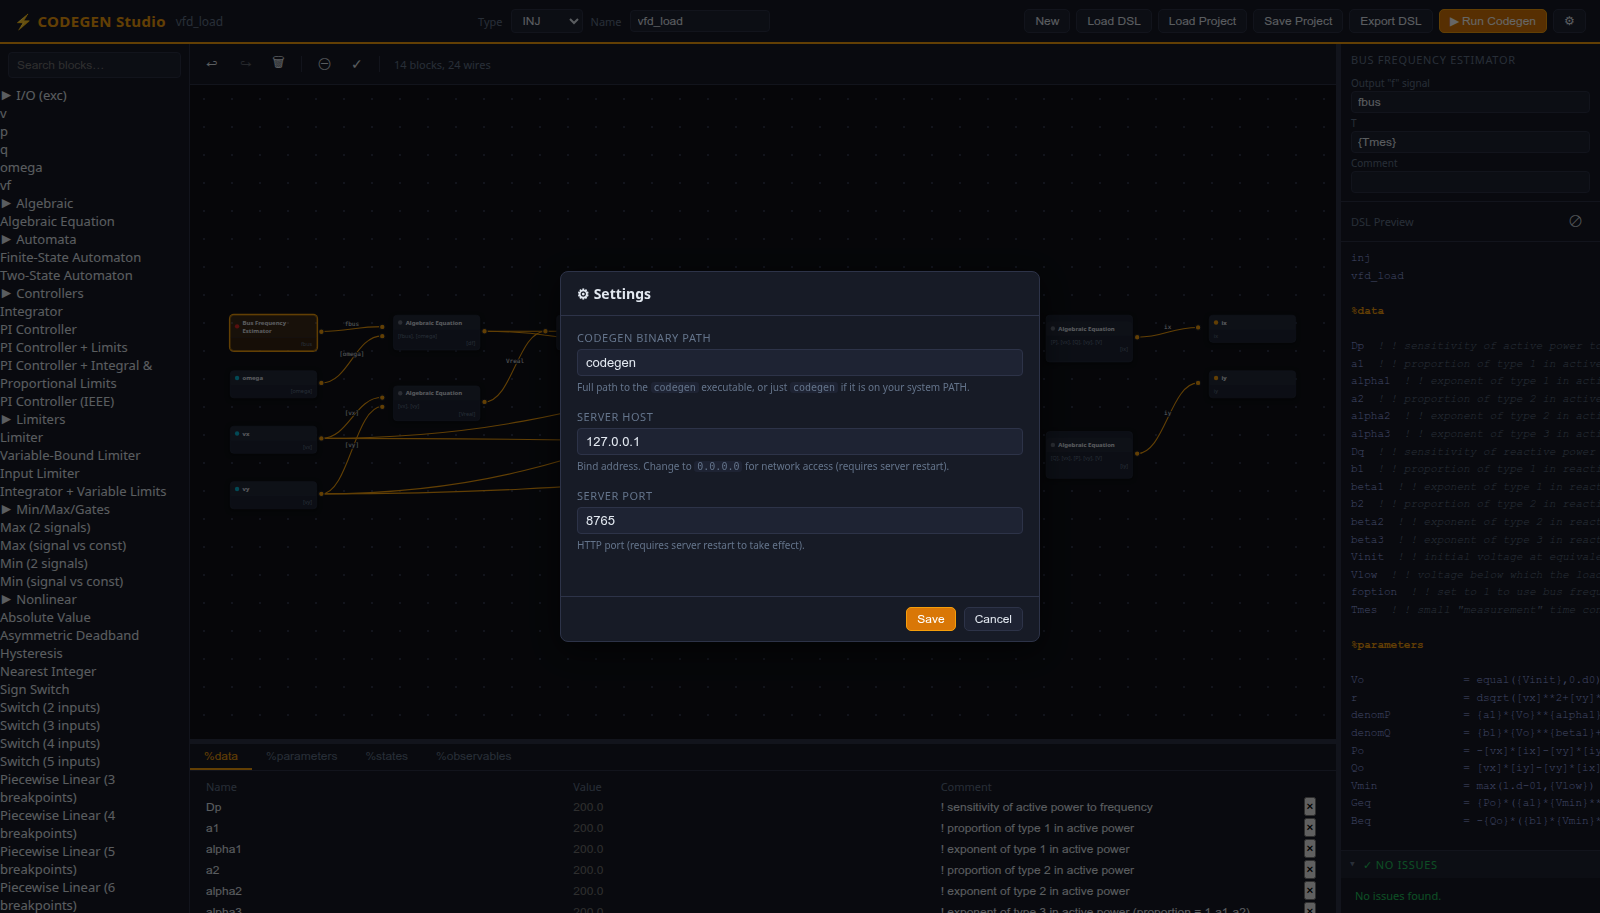
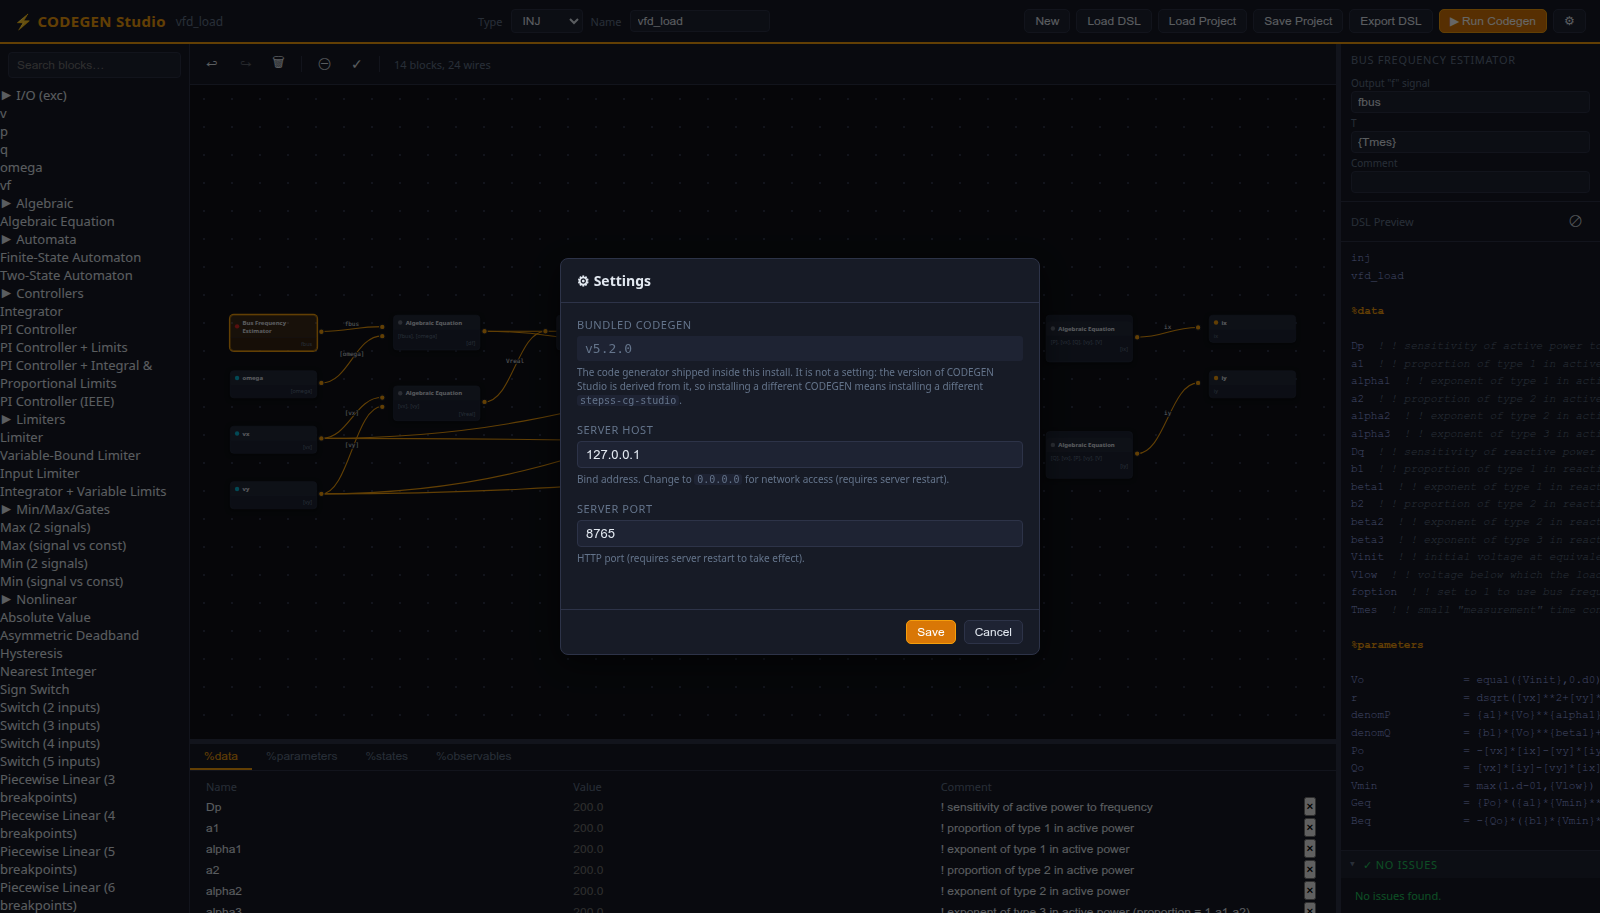
CODEGEN Studio bundles CODEGEN, so say so and stop describing a setting
The wheel now carries the CODEGEN executables for all three platforms, so
Run Codegen works on a fresh `pip install stepss-cg-studio`. Four places
told readers the opposite: that the wheel carried the editor alone, and
that they had to obtain a `codegen` executable and point Settings at it.

That setting is gone, not merely defaulted, so the Settings table and its
screenshot are reshot to match: the first row is a read-only "Bundled
CODEGEN" value rather than an editable path. Only that figure changed;
the other five come out of the same capture run unchanged in substance.

The licence page gains the consequence, since it owns these facts: two
things now ship CODEGEN, and both are mixed-licence rather than the
Apache 2.0 their own source is under. The component table said CODEGEN
Studio was Apache 2.0 full stop, which is true of the repository and not
of the wheel PyPI serves.

macOS gains the one caveat that survives: `brew install gcc`, because
Apple does not support fully static executables and that build links
against libgfortran.

Changed region(s): [[0.3438, 0.276, 0.6562, 0.6134], [0.3438, 0.644, 0.6562, 0.736], [0.4688, 0.4907, 0.5938, 0.552]]

diff --git a/src/content/docs/getting-started/license.md b/src/content/docs/getting-started/license.md
@@ -11,7 +11,7 @@ description: Licensing information for the STEPSS suite
 | stepss | Apache License 2.0 | [SPS-L/stepss-python-ui](https://github.com/SPS-L/stepss-python-ui) |
 | URAMSES | Apache License 2.0 | [SPS-L/stepss-uramses](https://github.com/SPS-L/stepss-uramses) |
 | stepss-eigenanalysis | Apache License 2.0 | [SPS-L/stepss-eigenanalysis](https://github.com/SPS-L/stepss-eigenanalysis) |
-| CODEGEN Studio | Apache License 2.0 | [SPS-L/stepss-cg-studio](https://github.com/SPS-L/stepss-cg-studio) |
+| CODEGEN Studio | Apache License 2.0, but its **PyPI wheel bundles CODEGEN**: see [CODEGEN License](#codegen-license) | [SPS-L/stepss-cg-studio](https://github.com/SPS-L/stepss-cg-studio) |
 | stepss-dyngraph | Apache License 2.0 | SPS-L/stepss-dyngraph (private) |
 | RamsesNN | MIT License | [SPS-L/stepss-RamsesNN](https://github.com/SPS-L/stepss-RamsesNN) |
 | Helios | Academic Public License (free for non-commercial use), with a commercial option | See [Helios License](#helios-license) below |
@@ -58,6 +58,21 @@ For extensions to larger models or execution using more than two cores, contact 
 ## CODEGEN License
 
 **CODEGEN** (the model generator) is the property of **Dr. Thierry Van Cutsem**. It is distributed under the **Academic Public License for the use of STEPSS** as a compiled executable that is **free to use for non-commercial purposes**; commercial use requires contacting the Authors. It is not open-source: its source code is not included in any of the public STEPSS repositories.
+
+Two things ship CODEGEN, and both are therefore mixed-licence rather than the
+Apache 2.0 their own source is under:
+
+- **STEPSS GUI**, which carries the whole toolchain.
+- **CODEGEN Studio**, whose PyPI wheel (`pip install stepss-cg-studio`) bundles
+  the CODEGEN executables for Linux, Windows and macOS so that its Run Codegen
+  action works on a fresh install. The licence text ships inside the wheel as
+  `cg_studio/bin/LICENSE-CODEGEN`, and the two leading components of the
+  package's version name the CODEGEN release it carries: `stepss-cg-studio`
+  5.3.0 and 5.3.1 both run CODEGEN 5.3.
+
+Installing either means accepting these terms for the bundled generator. The
+Apache 2.0 licence in each of those repositories covers the code written there,
+not the executables shipped alongside it.
 
 ## Requesting a Commercial License
 

diff --git a/src/content/docs/resources/repositories.md b/src/content/docs/resources/repositories.md
@@ -79,10 +79,15 @@ tests need neither a RAMSES licence nor the engine itself.
 Browser-based visual editor for building CODEGEN user-defined models with drag-and-drop blocks.
 
 - **Repository**: [github.com/SPS-L/stepss-cg-studio](https://github.com/SPS-L/stepss-cg-studio)
-- **Requirements**: Python 3.10 or later
+- **Requirements**: Python 3.10 or later. On macOS also `brew install gcc`, which the bundled CODEGEN links against.
 - **Install**: `pip install stepss-cg-studio`
 - **Run**: `cg-studio` → open `http://localhost:8765`
 - **Documentation**: [CODEGEN Studio guide](/developer/cg-studio/) on this site
+
+The wheel bundles the CODEGEN executables for Linux, Windows and macOS, so Run
+Codegen works on a fresh install with nothing to configure. That makes it
+mixed-licence: see [License](/getting-started/license/#codegen-license). Its
+version names the CODEGEN it carries, so 5.3.0 and 5.3.1 both run CODEGEN 5.3.
 
 :::note
 Test-system data repositories (Nordic, 5-bus, Kundur, GB Network, and others) are not listed here; see the [Test Systems](/test-systems/) section of this site.
